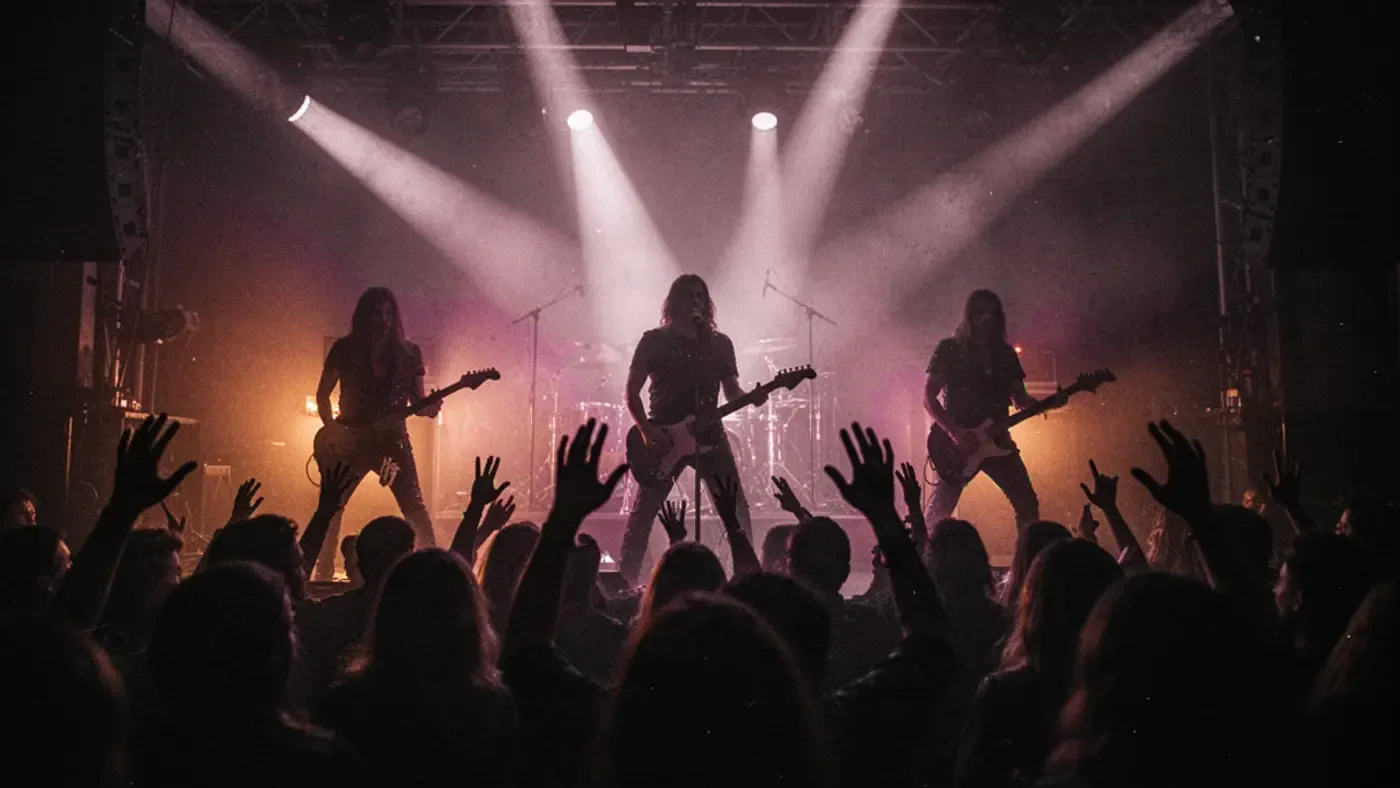
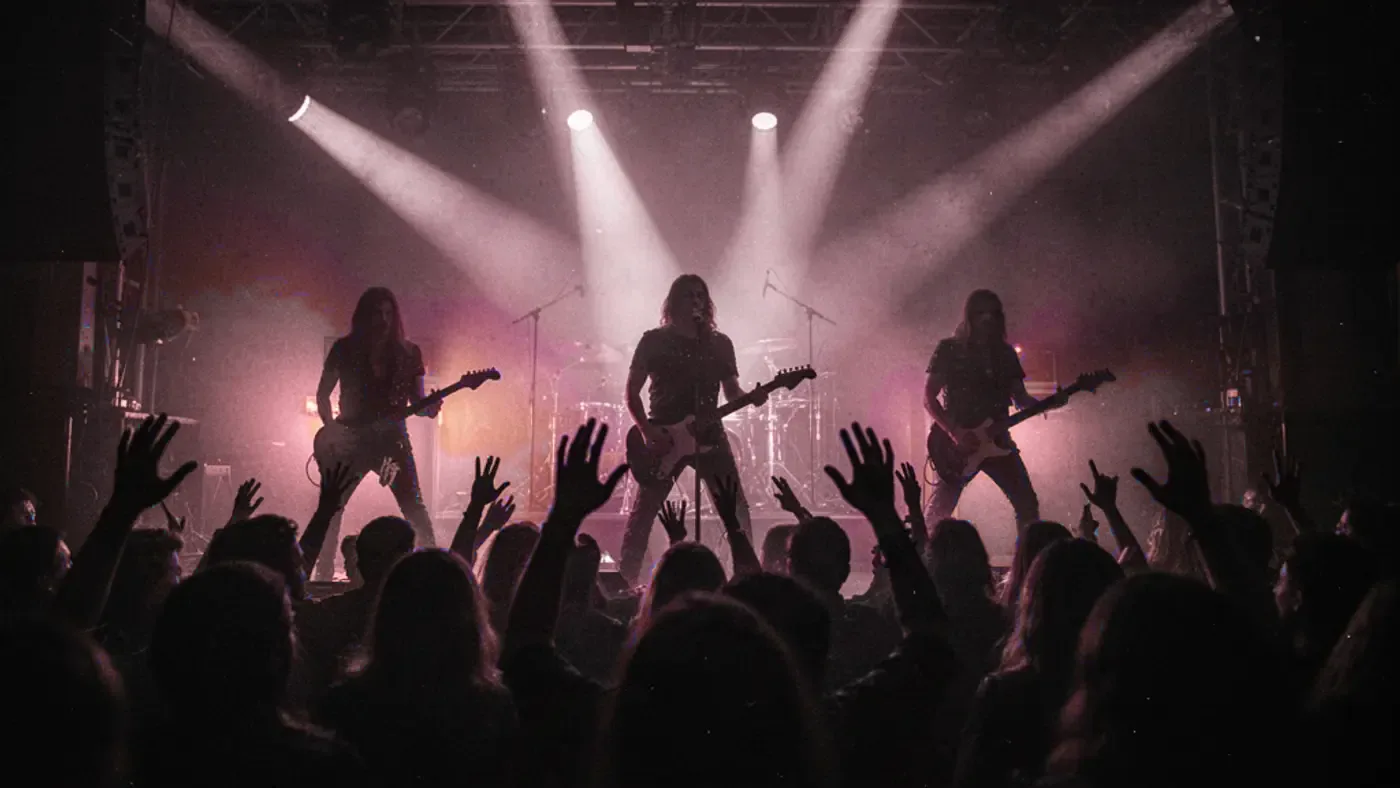
Remove laranja: preto, branco, vinho e cinza
Claude-Session: https://claude.ai/code/session_01P75SYugPZQa5aGkncxyAbD

Changed region(s): [[0.0614, 0.3655, 0.3993, 0.7614], [0.6757, 0.4873, 0.8293, 0.731], [0.86, 0.4873, 0.8907, 0.5178]]

diff --git a/assets/nrota.css b/assets/nrota.css
@@ -3,7 +3,7 @@
   --bg:#0d0b0c; --ink:#151213; --glass:rgba(255,255,255,.045); --glass-hi:rgba(255,255,255,.09); --edge:rgba(255,255,255,.09);
   --fg:#f7f4f4; --muted:#aaa4a6; --dim:#716c6e;
   --lilac:#e07c8e; --violet:#8e1428; --lilac-ink:#2a0710;
-  --orange:#ff7a1a; --orange-hi:#ffa05a; --orange-ink:#1f0d00;
+  --orange:#c42a45; --orange-hi:#e0556c; --orange-ink:#fff;
   --wine:#ae172e; --danger:#ff8a9a;
   --f-display:"Big Shoulders Display","Arial Narrow","Roboto Condensed",Impact,sans-serif;
   --f-body:"Familjen Grotesk",system-ui,-apple-system,"Segoe UI",sans-serif;
@@ -41,8 +41,8 @@ p{margin:0}
 .btn{position:relative;display:inline-flex;align-items:center;justify-content:center;gap:10px;border-radius:99px;padding:15px 24px;font-weight:600;font-size:1rem;text-decoration:none;border:1px solid transparent;transition:transform .25s var(--ease),box-shadow .25s,background .2s,border-color .2s;white-space:nowrap}
 .btn:active{transform:scale(.97)}
 .btn:disabled{opacity:.6}
-.btn-o{background:linear-gradient(180deg,var(--orange-hi),var(--orange));color:var(--orange-ink);box-shadow:0 10px 30px -8px rgba(255,122,26,.7),inset 0 1px 0 rgba(255,255,255,.35)}
-.btn-o:hover{box-shadow:0 14px 40px -6px rgba(255,122,26,.85),inset 0 1px 0 rgba(255,255,255,.35);transform:translateY(-2px)}
+.btn-o{background:linear-gradient(180deg,var(--orange-hi),var(--orange));color:var(--orange-ink);box-shadow:0 10px 30px -8px rgba(196,42,69,.7),inset 0 1px 0 rgba(255,255,255,.35)}
+.btn-o:hover{box-shadow:0 14px 40px -6px rgba(196,42,69,.85),inset 0 1px 0 rgba(255,255,255,.35);transform:translateY(-2px)}
 .btn-p{background:var(--lilac);color:var(--lilac-ink)}
 .btn-p:hover{background:#d6c3ff;transform:translateY(-2px)}
 .btn-g{background:var(--glass);border-color:var(--edge);color:var(--fg);backdrop-filter:blur(10px);-webkit-backdrop-filter:blur(10px)}
@@ -109,7 +109,7 @@ footer.site{position:relative;overflow:hidden;border-top:1px solid var(--edge);p
 .beams{position:absolute;inset:-20% -30% auto;height:900px;z-index:-1;pointer-events:none}
 .beam{position:absolute;top:-10%;width:60%;height:120%;filter:blur(30px);opacity:.55;transform-origin:50% 0;mix-blend-mode:screen;animation:sweep 9s ease-in-out infinite alternate}
 .beam.b1{left:5%;background:conic-gradient(from 168deg at 50% 0,transparent 0deg,rgba(224,124,142,.55) 12deg,transparent 26deg)}
-.beam.b2{right:0;background:conic-gradient(from 172deg at 50% 0,transparent 0deg,rgba(255,122,26,.42) 10deg,transparent 22deg);animation-duration:11s;animation-delay:-3s}
+.beam.b2{right:0;background:conic-gradient(from 172deg at 50% 0,transparent 0deg,rgba(196,42,69,.42) 10deg,transparent 22deg);animation-duration:11s;animation-delay:-3s}
 .beam.b3{left:35%;background:conic-gradient(from 175deg at 50% 0,transparent 0deg,rgba(142,20,40,.6) 9deg,transparent 18deg);animation-duration:13s}
 @keyframes sweep{from{transform:rotate(-14deg)}to{transform:rotate(14deg)}}
 .hero-grid{display:grid;gap:28px}
@@ -191,7 +191,7 @@ a.card .more{margin-top:auto;padding-top:10px}
 .card.photo::before{content:"";position:absolute;inset:0;z-index:1;background:linear-gradient(180deg,rgba(13,11,12,.05) 30%,rgba(13,11,12,.92))}
 .card.photo .in{position:relative;z-index:2;display:grid;gap:10px;padding:22px}
 .card.dash{background:transparent;border-style:dashed}
-.card.hl{border-color:rgba(255,122,26,.6);background:linear-gradient(160deg,rgba(255,122,26,.16),rgba(255,255,255,.02) 60%)}
+.card.hl{border-color:rgba(196,42,69,.6);background:linear-gradient(160deg,rgba(196,42,69,.16),rgba(255,255,255,.02) 60%)}
 .price{font-family:var(--f-display);font-weight:800;font-size:3rem;line-height:.9;color:var(--lilac)}
 .price small{font-family:var(--f-mono);font-weight:400;font-size:.62rem;letter-spacing:.06em;color:var(--muted);text-transform:uppercase;margin-left:6px}
 .card.hl .price{color:var(--orange-hi)}
@@ -229,7 +229,7 @@ a.card .more{margin-top:auto;padding-top:10px}
 .lc strong{display:block;font-size:.92rem;white-space:nowrap;overflow:hidden;text-overflow:ellipsis}
 .lc span{display:block;font-size:.78rem;color:var(--muted);white-space:nowrap;overflow:hidden;text-overflow:ellipsis}
 .lc .pill{display:inline-block;margin-top:5px;font-family:var(--f-mono);font-size:.54rem;letter-spacing:.06em;text-transform:uppercase;padding:3px 8px;border-radius:99px;border:1px solid var(--edge);color:var(--lilac)}
-.lc.ask .pill{color:var(--orange-hi);border-color:rgba(255,122,26,.35)}
+.lc.ask .pill{color:var(--orange-hi);border-color:rgba(196,42,69,.35)}
 @media (min-width:640px){.stage{grid-template-columns:1fr 1fr}.lane.rev{display:block}}
 @media (min-width:980px){.flow{grid-template-columns:.9fr 1.1fr;align-items:center;gap:56px}.stage{height:520px}}
 
@@ -252,7 +252,7 @@ a.card .more{margin-top:auto;padding-top:10px}
 .example span{color:var(--lilac)}
 
 /* faixa final com vinil */
-.band{position:relative;overflow:hidden;display:grid;gap:22px;padding:34px 26px;border-radius:32px;border:1px solid var(--edge);background:radial-gradient(80% 120% at 0% 0%,rgba(142,20,40,.55),transparent 60%),radial-gradient(60% 80% at 100% 100%,rgba(255,122,26,.25),transparent 60%),var(--ink)}
+.band{position:relative;overflow:hidden;display:grid;gap:22px;padding:34px 26px;border-radius:32px;border:1px solid var(--edge);background:radial-gradient(80% 120% at 0% 0%,rgba(142,20,40,.55),transparent 60%),radial-gradient(60% 80% at 100% 100%,rgba(196,42,69,.25),transparent 60%),var(--ink)}
 .band>div{position:relative;z-index:2;display:grid;gap:14px;max-width:560px}
 .band h2{font-size:clamp(2.4rem,9vw,4.4rem)}
 .band .ctas{position:relative;z-index:2}
@@ -421,11 +421,11 @@ input[type=file]::file-selector-button{font:inherit;font-weight:600;margin-right
 .perf-txt h1 span{display:block}
 .juggle{position:relative;width:300px;height:260px;justify-self:center;perspective:700px}
 .juggle .b{position:absolute;left:0;top:0;width:34px;height:34px;margin:-17px 0 0 -17px;border-radius:50%;offset-path:path("M150 110 C 230 -10 300 60 270 120 C 240 180 170 160 150 110 C 130 60 60 40 30 100 C 0 160 70 230 150 110 Z");offset-rotate:0deg;animation:orbit 6s linear infinite;box-shadow:inset -6px -8px 14px rgba(0,0,0,.45),0 14px 24px -8px rgba(0,0,0,.8)}
-.juggle .b1{background:radial-gradient(circle at 30% 28%,#ffc08a,var(--orange) 55%,#a33f00)}
-.juggle .b2{background:radial-gradient(circle at 30% 28%,#fff,#cfc9ca 60%,#7c7678);animation-delay:-1.2s}
+.juggle .b1{background:radial-gradient(circle at 30% 28%,#fff,#d9d4d5 55%,#8a8486)}
+.juggle .b2{background:radial-gradient(circle at 30% 28%,#4a4547,#1b1819 60%,#000);animation-delay:-1.2s}
 .juggle .b3{background:radial-gradient(circle at 30% 28%,#e8788a,var(--wine) 60%,#4d0a15);animation-delay:-2.4s}
 .juggle .b4{background:radial-gradient(circle at 30% 28%,#bdb7b9,#6e686a 60%,#2e2a2b);animation-delay:-3.6s}
-.juggle .b5{background:radial-gradient(circle at 30% 28%,#ffc08a,var(--orange) 55%,#a33f00);animation-delay:-4.8s}
+.juggle .b5{background:radial-gradient(circle at 30% 28%,#ee8a9b,var(--orange) 55%,#4d0a15);animation-delay:-4.8s}
 @keyframes orbit{to{offset-distance:100%}}
 .juggle .ring{position:absolute;border-radius:50%;border:2px solid var(--lilac);opacity:.55;animation:spin 9s linear infinite}
 .juggle .r1{width:220px;height:220px;left:40px;top:10px;transform:rotateX(68deg)}
